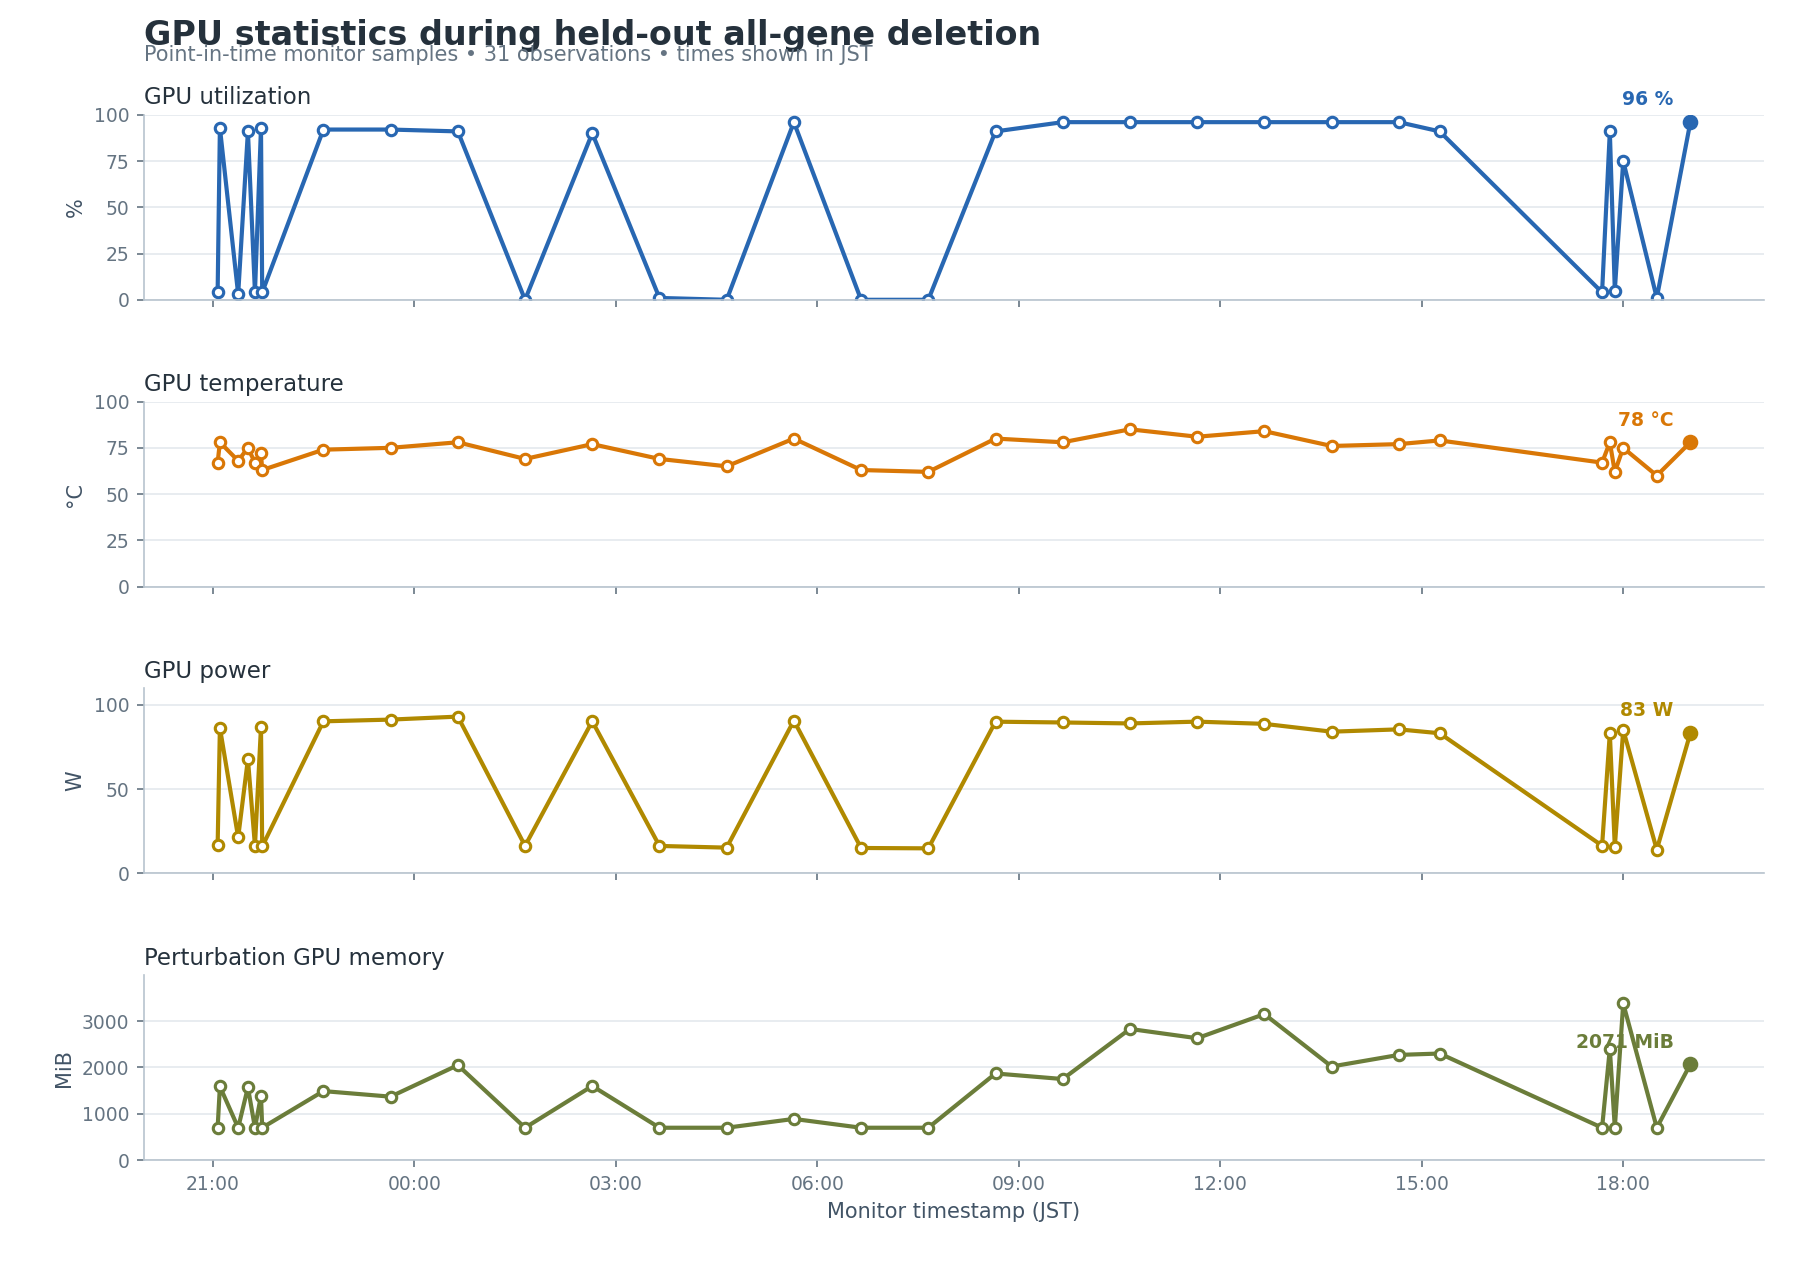
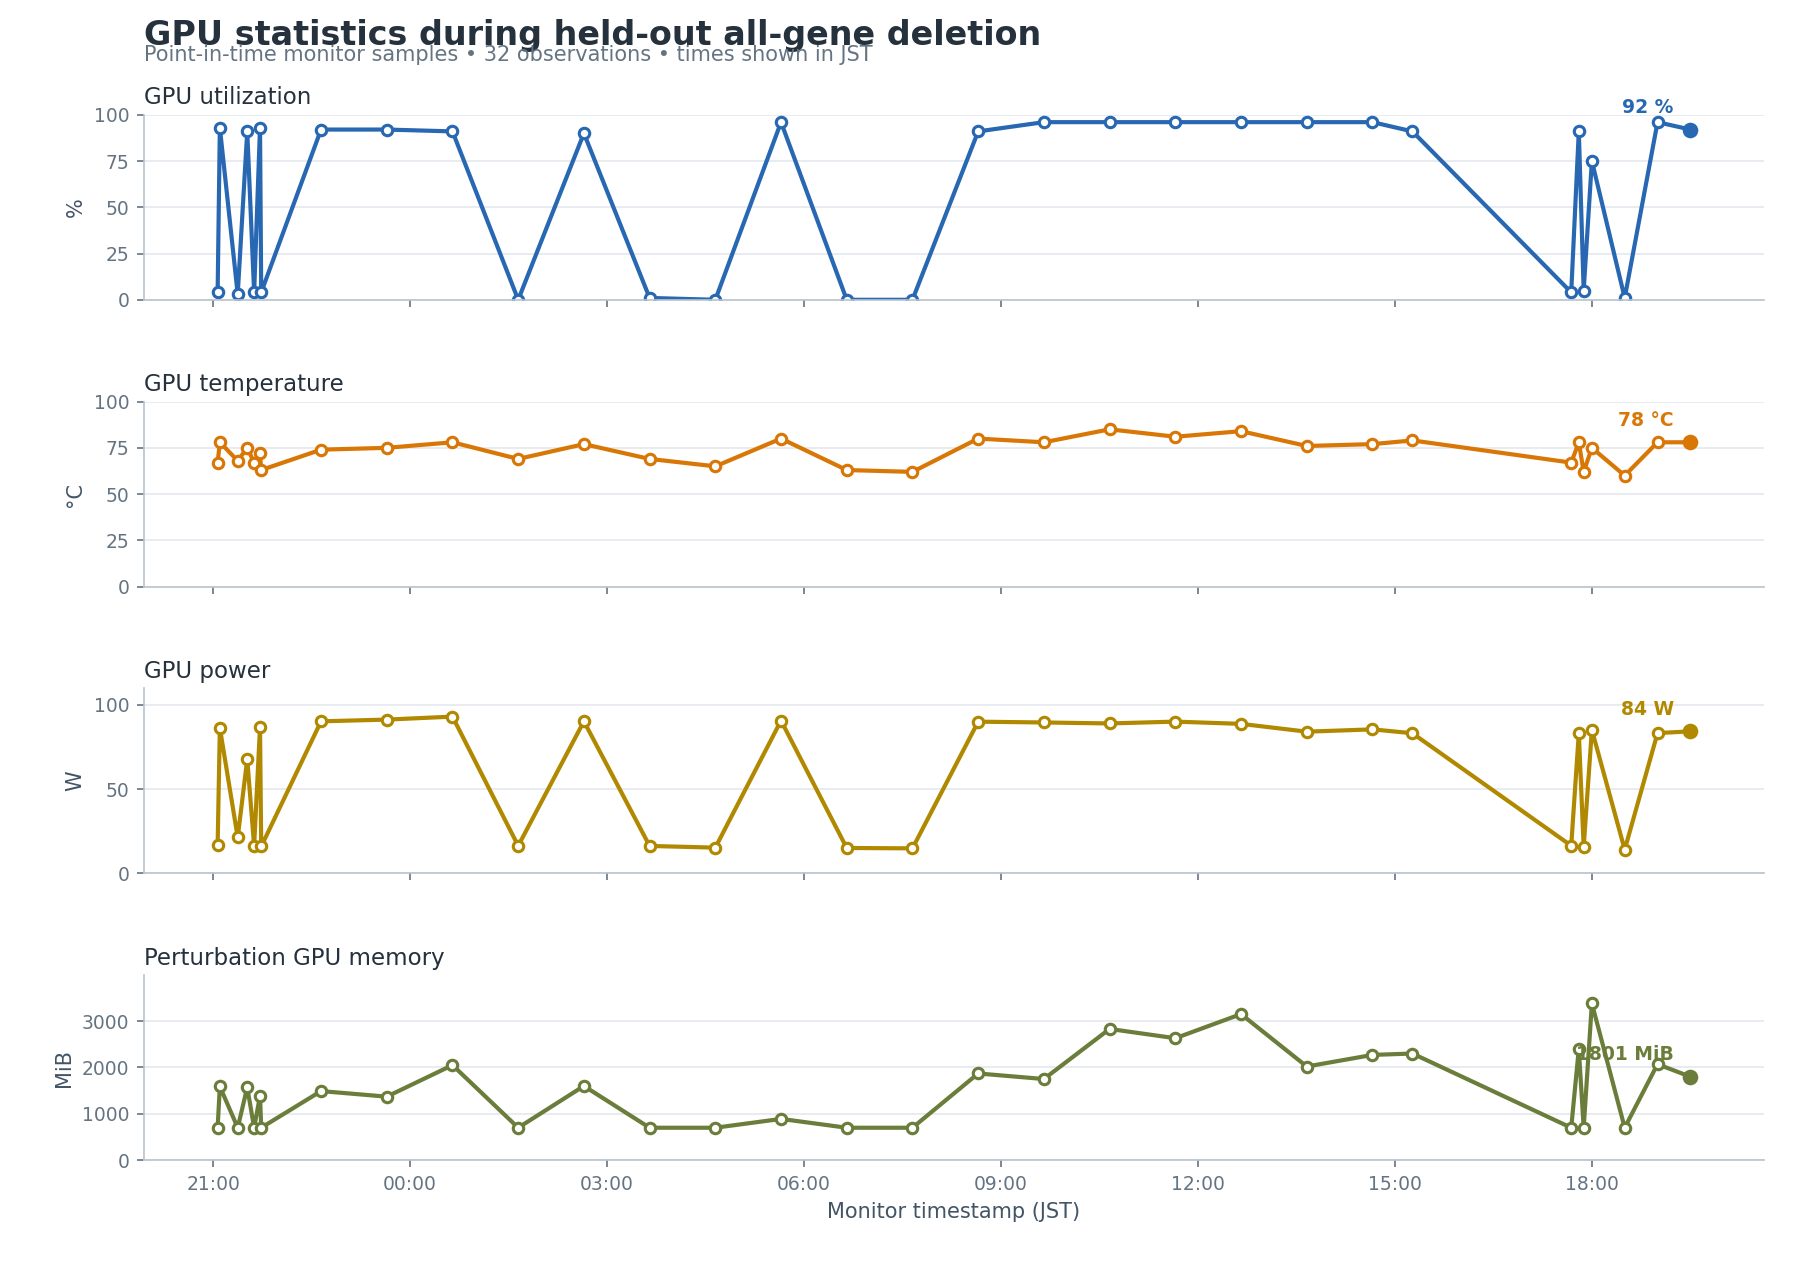
monitor: update perturbation status 2026-07-18 19:30 JST

diff --git a/current_workflow/monitoring/GPU_PROGRESS_REPORT.md b/current_workflow/monitoring/GPU_PROGRESS_REPORT.md
@@ -15,6 +15,7 @@ Newest refreshes are appended at the top and retained for the most recent
 48 runs.
 
 <!-- JOB_RUN_SUMMARIES_START -->
+- **2026-07-18T19:30:01+09:00** — RUNNING; 2,766 / 3,379 cells (81.86%). The run advanced by 37 cells and 1 shards, lifting completion from 80.76% to 81.86%. LUSC remained complete; LUAD remained complete; NORMAL moved from 758 to 795 cells; GPU utilization fell from 96% to 92%.
 - **2026-07-18T19:00:01+09:00** — RUNNING; 2,729 / 3,379 cells (80.76%). The run advanced by 37 cells and 2 shards, lifting completion from 79.67% to 80.76%. LUSC remained complete; LUAD remained complete; NORMAL moved from 721 to 758 cells; GPU utilization rose from 1% to 96%.
 - **2026-07-18T18:30:01+09:00** — RUNNING; 2,692 / 3,379 cells (79.67%). The run advanced by 46 cells and 1 shards, lifting completion from 78.31% to 79.67%. LUSC remained complete; LUAD remained complete; NORMAL moved from 675 to 721 cells; GPU utilization fell from 75% to 1%.
 - **2026-07-18T18:00:01+09:00** — RUNNING; 2,646 / 3,379 cells (78.31%). The run advanced by 16 cells and 1 shards, lifting completion from 77.83% to 78.31%. LUSC remained complete; LUAD remained complete; NORMAL moved from 659 to 675 cells; GPU utilization rose from 5% to 75%.
@@ -25,19 +26,19 @@ Newest refreshes are appended at the top and retained for the most recent
 
 ## Current snapshot
 
-**What changed since the prior report:** The run advanced by 37 cells and 2 shards, lifting completion from 79.67% to 80.76%. LUSC remained complete; LUAD remained complete; NORMAL moved from 721 to 758 cells; GPU utilization rose from 1% to 96%.
+**What changed since the prior report:** The run advanced by 37 cells and 1 shards, lifting completion from 80.76% to 81.86%. LUSC remained complete; LUAD remained complete; NORMAL moved from 758 to 795 cells; GPU utilization fell from 96% to 92%.
 
 | Metric | Value |
 | --- | --- |
-| Generated | 2026-07-18T19:00:01+09:00 |
+| Generated | 2026-07-18T19:30:01+09:00 |
 | Run status | RUNNING |
-| Overall cell progress | 2,729 / 3,379 (80.76%) |
+| Overall cell progress | 2,766 / 3,379 (81.86%) |
 | GPU | NVIDIA GB10 |
-| GPU utilization | 96% |
+| GPU utilization | 92% |
 | GPU temperature | 78 C |
-| GPU power | 83.3 W |
-| Perturbation GPU memory | 2,071 MiB |
-| System memory used | 39.5 GiB |
+| GPU power | 84.3 W |
+| Perturbation GPU memory | 1,801 MiB |
+| System memory used | 39.6 GiB |
 | System memory available | 80.1 GiB |
 | Swap used | 0.0 GiB |
 
@@ -47,11 +48,11 @@ Newest refreshes are appended at the top and retained for the most recent
 | --- | --- | --- | --- | --- |
 | LUSC | 560 / 560 (100.00%) | 23 / 23 | 1,120 | 348,313 / 348,313 |
 | LUAD | 1,411 / 1,411 (100.00%) | 57 / 57 | 2,822 | 1,150,097 / 1,150,097 |
-| NORMAL | 758 / 1,408 (53.84%) | 30 / 57 | 1,527 | 771,761 / 1,439,366 |
+| NORMAL | 795 / 1,408 (56.46%) | 31 / 57 | 1,601 | 796,333 / 1,439,366 |
 
 ## Final statistical comparisons
 
-**0 / 6 comparisons are complete. Final aggregation waits for the deletion screen, currently 110 / 137 shards.**
+**0 / 6 comparisons are complete. Final aggregation waits for the deletion screen, currently 111 / 137 shards.**
 
 | Comparison | State | Result rows | Updated | Output |
 | --- | --- | --- | --- | --- |
@@ -76,6 +77,7 @@ The history table below shows the newest samples first.
 
 | Timestamp | Cells | Progress | GPU util | Temp | Power | Shards |
 | --- | --- | --- | --- | --- | --- | --- |
+| 2026-07-18T19:30:01+09:00 | 2,766 | 81.86% | 92% | 78 C | 84.3 W | 111 |
 | 2026-07-18T19:00:01+09:00 | 2,729 | 80.76% | 96% | 78 C | 83.3 W | 110 |
 | 2026-07-18T18:30:01+09:00 | 2,692 | 79.67% | 1% | 60 C | 14.1 W | 108 |
 | 2026-07-18T18:00:01+09:00 | 2,646 | 78.31% | 75% | 75 C | 85.2 W | 107 |
@@ -83,7 +85,6 @@ The history table below shows the newest samples first.
 | 2026-07-18T17:48:04+09:00 | 2,625 | 77.69% | 91% | 78 C | 83.2 W | 106 |
 | 2026-07-18T17:41:08+09:00 | 2,613 | 77.33% | 4% | 67 C | 16.5 W | 105 |
 | 2026-07-18T15:16:02+09:00 | 2,403 | 71.12% | 91% | 79 C | 83.2 W | 97 |
-| 2026-07-18T14:39:30+09:00 | 2,351 | 69.58% | 96% | 77 C | 85.5 W | 95 |
 
 ## Job notes
 
